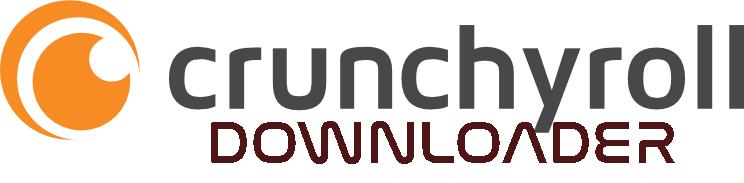
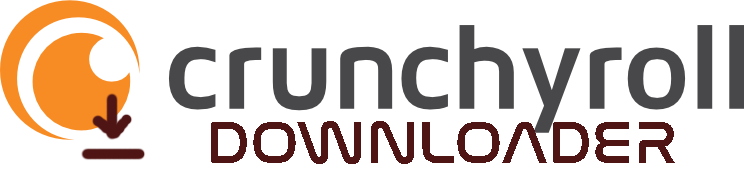
Add download popup

Changed region(s): [[0.1237, 0.5191, 0.1855, 0.765], [0.0927, 0.7923, 0.2164, 0.8743]]

diff --git a/Crunchyroll-Downloader/download.xaml b/Crunchyroll-Downloader/download.xaml
@@ -1,0 +1,23 @@
+<Window x:Class="CrunchyrollDownloader.download"
+        xmlns="http://schemas.microsoft.com/winfx/2006/xaml/presentation"
+        xmlns:x="http://schemas.microsoft.com/winfx/2006/xaml"
+        xmlns:d="http://schemas.microsoft.com/expression/blend/2008"
+        xmlns:mc="http://schemas.openxmlformats.org/markup-compatibility/2006"
+        xmlns:local="clr-namespace:CrunchyrollDownloader"
+        mc:Ignorable="d"
+        Title="Downloading ..." Height="168.75" Width="366.477" Icon="crlogo.ico" ResizeMode="NoResize" WindowStartupLocation="CenterScreen" IsTabStop="True">
+    <Grid>
+        <Grid.ColumnDefinitions>
+            <ColumnDefinition Width="49*"/>
+            <ColumnDefinition Width="41*"/>
+        </Grid.ColumnDefinitions>
+        <Grid.Background>
+
+            <ImageBrush ImageSource="fond.jpg"/>
+        </Grid.Background>
+        <Image x:Name="crunchy_png" Margin="35,10,36,58" Source="crunchy.png" Stretch="Fill" Grid.ColumnSpan="2"/>
+        <ProgressBar x:Name="download_bar" HorizontalAlignment="Left" Height="25" Margin="10,107,0,0" VerticalAlignment="Top" Width="338" IsIndeterminate="True" Value="50" Cursor="None" Grid.ColumnSpan="2" />
+
+
+    </Grid>
+</Window>

diff --git a/Crunchyroll-Downloader/Program.cs b/Crunchyroll-Downloader/Program.cs
@@ -10,6 +10,8 @@ using System.IO;
 using System.Net;
 using ICSharpCode.SharpZipLib.Zip;
 using ICSharpCode.SharpZipLib.Core;
+using System.Threading;
+using System.Windows.Threading;
 
 namespace CrunchyrollDownloader
 {
@@ -23,35 +25,71 @@ namespace CrunchyrollDownloader
         public string format { get; set; }
         public string savePath { get; set; }
 
+
         public void Downloading()
         {
+
+
+
             //MessageBox.Show("Everything is good, a pop up will tell you when the download is finished.", "Success", MessageBoxButton.OK, MessageBoxImage.Information);
             Process process = new Process();
             // Configure the process using the StartInfo properties.
             process.StartInfo.FileName = @"C:\ProgramData\Crunchy-DL\youtube-dl.exe";
+            process.StartInfo.UseShellExecute = false;
+            process.StartInfo.RedirectStandardOutput = true;
+            process.StartInfo.WindowStyle = ProcessWindowStyle.Hidden;
+            process.StartInfo.CreateNoWindow = true;
+            process.EnableRaisingEvents = true;
+
 
             if (STState == "1")
             {
-
                 process.StartInfo.Arguments = "--write-sub --sub-lang " + langue + " --sub-format " + format + " --no-part -o " + '"' + savePath + '"' + " --cookies C:\\ProgramData\\Crunchy-DL\\cookies.txt" + " " + url;
-                process.StartInfo.WindowStyle = ProcessWindowStyle.Maximized;
+                Thread viewerThread = new Thread(delegate ()
+                {
+                    download download_window = new download();
+                    download_window.Show();
+                    download_window.Activate();
+                    download_window.Closed += (s, e) =>
+                    Dispatcher.CurrentDispatcher.BeginInvokeShutdown(DispatcherPriority.Normal);
+                    System.Windows.Threading.Dispatcher.Run();
+                });
+                viewerThread.SetApartmentState(ApartmentState.STA); // needs to be STA or throws exception
+                viewerThread.Start();
+
                 process.Start();
-                process.WaitForExit();// Waits here for the process to exit.
+                process.WaitForExit(); // Waits here for the process to exit.
+                viewerThread.Abort();
                 MessageBox.Show("Download finished !", "Success !", MessageBoxButton.OK, MessageBoxImage.Information);
 
             }
             else
             {
-                process.StartInfo.Arguments = "--no-part -o " + '"' + savePath + '"' + " --cookies C:\\ProgramData\\Crunchy-DL\\cookies.txt"+ " " + url;
-                process.StartInfo.WindowStyle = ProcessWindowStyle.Maximized;
+                process.StartInfo.Arguments = "--no-part -o " + '"' + savePath + '"' + " --cookies C:\\ProgramData\\Crunchy-DL\\cookies.txt" + " " + url;
+
+                Thread viewerThread = new Thread(delegate ()
+                {
+                    download download_window = new download();
+                    download_window.Show();
+                    download_window.Activate();
+                    download_window.Closed += (s, e) =>
+                    Dispatcher.CurrentDispatcher.BeginInvokeShutdown(DispatcherPriority.Normal);
+                    System.Windows.Threading.Dispatcher.Run();
+                });
+                viewerThread.SetApartmentState(ApartmentState.STA); // needs to be STA or throws exception
+                viewerThread.Start();
+
                 process.Start();
                 process.WaitForExit();// Waits here for the process to exit.
+                viewerThread.Abort();
                 MessageBox.Show("Download finished !", "Success !", MessageBoxButton.OK, MessageBoxImage.Information);
 
             }
 
 
         }
+
+        
 
 
     }

diff --git a/Crunchyroll-Downloader/MainWindow.xaml.cs b/Crunchyroll-Downloader/MainWindow.xaml.cs
@@ -5,6 +5,7 @@ using System.IO;
 using System.Linq;
 using System.Net;
 using System.Text;
+using System.Threading;
 using System.Threading.Tasks;
 using System.Windows;
 using System.Windows.Controls;
@@ -97,13 +98,24 @@ namespace CrunchyrollDownloader
             // Configure the process using the StartInfo properties.
             process.StartInfo.FileName = @"C:\ProgramData\Crunchy-DL\youtube-dl.exe";
             process.StartInfo.Arguments = "-U";
-            process.StartInfo.WindowStyle = ProcessWindowStyle.Minimized;
+            process.StartInfo.WindowStyle = ProcessWindowStyle.Hidden;
             process.Start();
             process.WaitForExit(); // Waits here for the process to exit.
         }
 
         public void Install_All()
         {
+            Thread viewerThread = new Thread(delegate ()
+            {
+                download download_window = new download();
+                download_window.Show();
+                download_window.Activate();
+                download_window.Closed += (s, e) =>
+                Dispatcher.CurrentDispatcher.BeginInvokeShutdown(DispatcherPriority.Normal);
+                System.Windows.Threading.Dispatcher.Run();
+            });
+            viewerThread.SetApartmentState(ApartmentState.STA); // needs to be STA or throws exception
+            viewerThread.Start();
             string ActualFolder = @"C:\ProgramData\Crunchy-DL";
             WebClient Client = new WebClient();
             var x = new ICSharpCode.SharpZipLib.Zip.FastZip();
@@ -115,7 +127,9 @@ namespace CrunchyrollDownloader
 
             x.ExtractZip(ActualFolder + @"\ffmpeg.zip", ActualFolder, "");
             x.ExtractZip(ActualFolder + @"\login.zip", ActualFolder, "");
+            YTDL_update();
             MessageBox.Show("youtube-dl and FFmpeg are now installed.", "Success", MessageBoxButton.OK, MessageBoxImage.Information);
+            viewerThread.Abort();
             InitializeComponent();
             if (File.Exists(@"C:\ProgramData\Crunchy-DL\cookies.txt"))
             {
@@ -133,17 +147,17 @@ namespace CrunchyrollDownloader
         private void button_Save_Click(object sender, RoutedEventArgs e)
         {
             // Create OpenFileDialog
-            Microsoft.Win32.SaveFileDialog dlg = new Microsoft.Win32.SaveFileDialog();
+            var dlg = new Microsoft.Win32.SaveFileDialog();
 
             // Set filter for file extension and default file extension
             dlg.DefaultExt = ".mp4";
             dlg.Filter = "Such mp4, such wow | *.mp4";
 
             // Display OpenFileDialog by calling ShowDialog method
-            Nullable<bool> result = dlg.ShowDialog();
+            var result = dlg.ShowDialog();
 
             // Get the selected file name and display in a TextBox
-            if (result == true)
+            if (result ?? false)
             {
                 // Open document
                 string filename = dlg.FileName;
@@ -219,7 +233,10 @@ namespace CrunchyrollDownloader
                 Machin.STState = "1";
             }
             if (File.Exists(@"C:\ProgramData\Crunchy-DL\cookies.txt"))
+            {
+                YTDL_update();
                 Machin.Downloading();
+            }
             else
             {
                 MessageBox.Show("Please login.", "Error", MessageBoxButton.OK, MessageBoxImage.Exclamation);
@@ -244,7 +261,7 @@ namespace CrunchyrollDownloader
         {
             login login_window = new login();
             login_window.Show();
-            this.Close();
+            Close();
         }
 
         private void button_logout_Click(object sender, RoutedEventArgs e)

diff --git a/Crunchyroll-Downloader/login.xaml.cs b/Crunchyroll-Downloader/login.xaml.cs
@@ -1,18 +1,5 @@
-using System;
-using System.Collections.Generic;
-using System.Diagnostics;
-using System.IO;
-using System.Linq;
-using System.Text;
-using System.Threading.Tasks;
+using System.Diagnostics;
 using System.Windows;
-using System.Windows.Controls;
-using System.Windows.Data;
-using System.Windows.Documents;
-using System.Windows.Input;
-using System.Windows.Media;
-using System.Windows.Media.Imaging;
-using System.Windows.Shapes;
 
 namespace CrunchyrollDownloader
 {
@@ -28,22 +15,22 @@ namespace CrunchyrollDownloader
 
         private void button_login_Click(object sender, RoutedEventArgs e)
         {
-            string username = textBox_username.Text;
-            string password = textBox_password.Password;
+            var username = textBox_username.Text;
+            var password = textBox_password.Password;
 
-            Process process = new Process();
+            var process = new Process();
             // Configure the process using the StartInfo properties.
             process.StartInfo.FileName = @"C:\ProgramData\Crunchy-DL\login\login.exe";
 
                 process.StartInfo.Arguments = username + " " + password;
-                process.StartInfo.WindowStyle = ProcessWindowStyle.Minimized;
+                process.StartInfo.WindowStyle = ProcessWindowStyle.Hidden;
                 process.Start();
                 process.WaitForExit();// Waits here for the process to exit.
 
             MainWindow main_window = new MainWindow();
             main_window.Show();
 
-            this.Close();
+            Close();
             }
     }
 }

diff --git a/Crunchyroll-Downloader/download.xaml.cs b/Crunchyroll-Downloader/download.xaml.cs
@@ -1,0 +1,33 @@
+using System;
+using System.Collections.Generic;
+using System.Linq;
+using System.Text;
+using System.Threading.Tasks;
+using System.Windows;
+using System.Windows.Controls;
+using System.Windows.Data;
+using System.Windows.Documents;
+using System.Windows.Input;
+using System.Windows.Media;
+using System.Windows.Media.Imaging;
+using System.Windows.Shapes;
+
+namespace CrunchyrollDownloader
+{
+    /// <summary>
+    /// Interaction logic for download.xaml
+    /// </summary>
+    public partial class download : Window
+    {
+        public download()
+        {
+            InitializeComponent();
+            this.Closing += new System.ComponentModel.CancelEventHandler(Window_Closing);
+        }
+
+        void Window_Closing(object sender, System.ComponentModel.CancelEventArgs e)
+        {
+            e.Cancel = true;
+        }
+    }
+}
